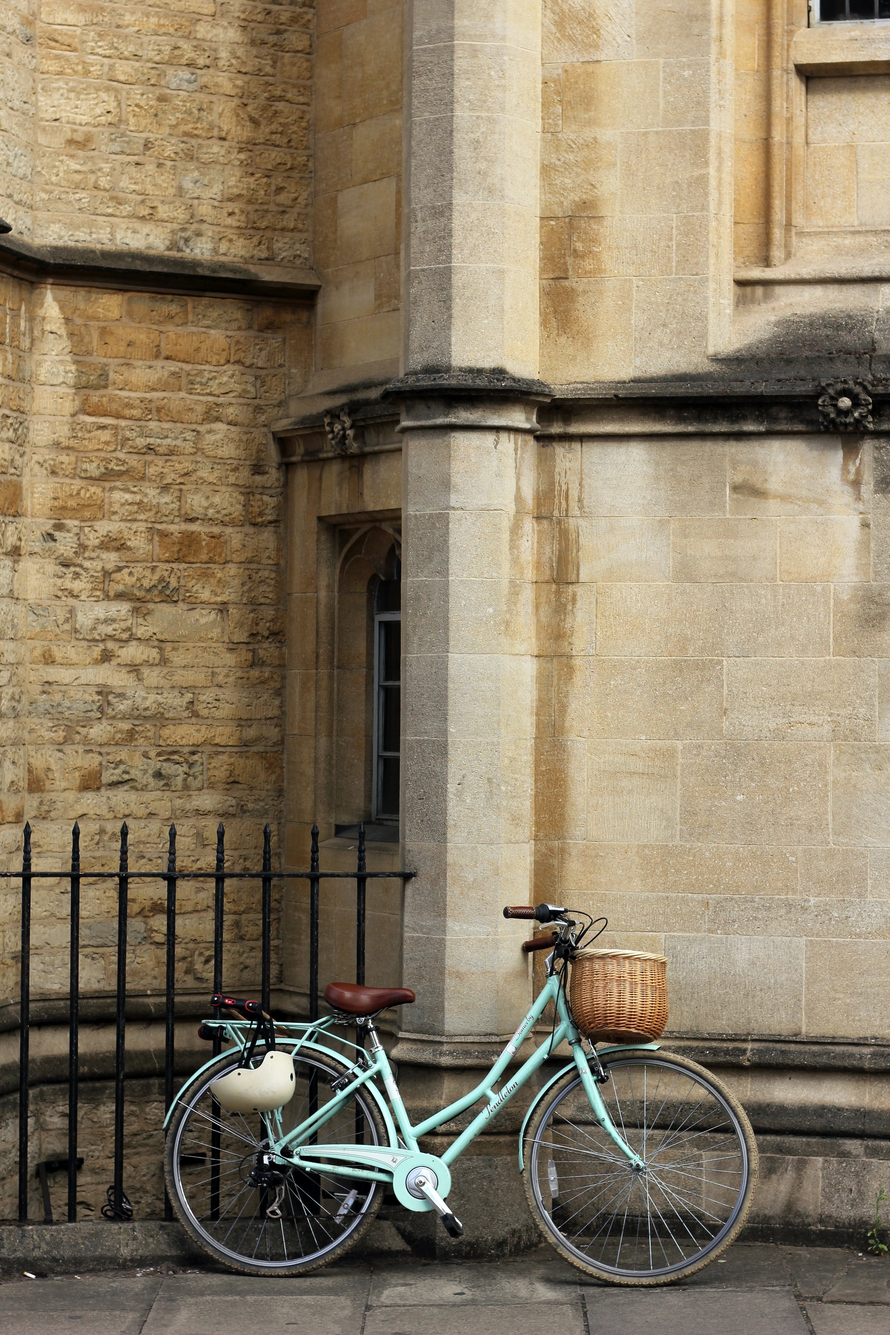
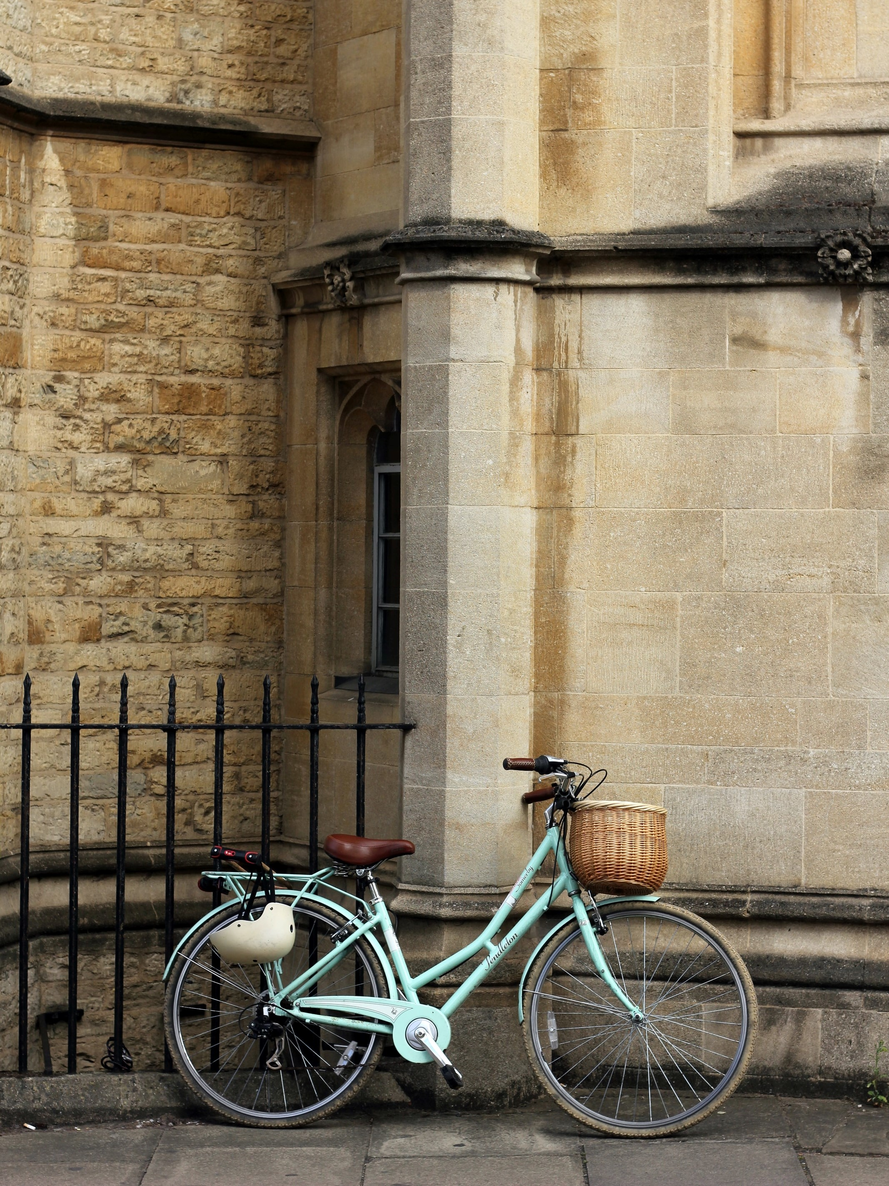
login html/css/image fixed

diff --git a/public/404.html b/public/404.html
@@ -25,12 +25,11 @@
 
 <body>
   <header>
-    <header>
       <div class="logoName" id="">
         <img src="./images/logo_final.png" id="logoImg">
-    </div>
+      </div>
   </header>
-  </header>
+<main class="firstPage">
   <div id="error-wrapper">
     <div id="error-div">
       <p id="not-found-title">404</p>
@@ -40,111 +39,112 @@
   </div>
 
 <!--Taken from https://codepen.io/lucawater/pen/feuar-->
-<div class="bike">
-  <div class="part frame">
-    <div class="bar left-top"></div>
-    <div class="bar left-bottom"></div>
-    <div class="bar left"></div>
-    <div class="bar top"></div>
-    <div class="bar bottom"></div>
-    <div class="bar right"></div>
-  </div>
-  <div class="part sadle">
-    <div class="sit-here"></div>
-    <div class="sadlepen"></div>
-  </div>
-  <div class="part handlebar">
-    <div class="stem"></div>
-    <div class="connector"></div>
-    <div class="prehandle"></div>
-    <div class="handle"></div>
-  </div>
-  <div class="part pedals">
-    <div class="inside"></div>
-    <div class="outside"></div>
-    <div class="pedalstem front">
-      <div class="pedalbase front"></div>
+  <div class="bike">
+    <div class="part frame">
+      <div class="bar left-top"></div>
+      <div class="bar left-bottom"></div>
+      <div class="bar left"></div>
+      <div class="bar top"></div>
+      <div class="bar bottom"></div>
+      <div class="bar right"></div>
     </div>
-    <div class="pedalstem back">
-      <div class="pedalbase back"></div>
+    <div class="part sadle">
+      <div class="sit-here"></div>
+      <div class="sadlepen"></div>
     </div>
+    <div class="part handlebar">
+      <div class="stem"></div>
+      <div class="connector"></div>
+      <div class="prehandle"></div>
+      <div class="handle"></div>
+    </div>
+    <div class="part pedals">
+      <div class="inside"></div>
+      <div class="outside"></div>
+      <div class="pedalstem front">
+        <div class="pedalbase front"></div>
+      </div>
+      <div class="pedalstem back">
+        <div class="pedalbase back"></div>
+      </div>
+    </div>
+    <div class="part wheel left">
+      <div class="spoke"></div>
+      <div class="spoke"></div>
+      <div class="spoke"></div>
+      <div class="spoke"></div>
+      <div class="spoke"></div>
+      <div class="spoke"></div>
+      <div class="spoke"></div>
+      <div class="spoke"></div>
+    </div>
+    <div class="part wheel right">
+      <div class="spoke"></div>
+      <div class="spoke"></div>
+      <div class="spoke"></div>
+      <div class="spoke"></div>
+      <div class="spoke"></div>
+      <div class="spoke"></div>
+      <div class="spoke"></div>
+      <div class="spoke"></div>
+    </div>
+    <div class="part axis left"></div>
+    <div class="part axis right"></div>
   </div>
-  <div class="part wheel left">
-    <div class="spoke"></div>
-    <div class="spoke"></div>
-    <div class="spoke"></div>
-    <div class="spoke"></div>
-    <div class="spoke"></div>
-    <div class="spoke"></div>
-    <div class="spoke"></div>
-    <div class="spoke"></div>
-  </div>
-  <div class="part wheel right">
-    <div class="spoke"></div>
-    <div class="spoke"></div>
-    <div class="spoke"></div>
-    <div class="spoke"></div>
-    <div class="spoke"></div>
-    <div class="spoke"></div>
-    <div class="spoke"></div>
-    <div class="spoke"></div>
-  </div>
-  <div class="part axis left"></div>
-  <div class="part axis right"></div>
-</div>
 
-<div class="bike bike-two">
-  <div class="part frame">
-    <div class="bar left-top"></div>
-    <div class="bar left-bottom"></div>
-    <div class="bar left"></div>
-    <div class="bar top"></div>
-    <div class="bar bottom"></div>
-    <div class="bar right"></div>
-  </div>
-  <div class="part sadle">
-    <div class="sit-here"></div>
-    <div class="sadlepen"></div>
-  </div>
-  <div class="part handlebar">
-    <div class="stem"></div>
-    <div class="connector"></div>
-    <div class="prehandle"></div>
-    <div class="handle"></div>
-  </div>
-  <div class="part pedals">
-    <div class="inside"></div>
-    <div class="outside"></div>
-    <div class="pedalstem front">
-      <div class="pedalbase front"></div>
+  <div class="bike bike-two">
+    <div class="part frame">
+      <div class="bar left-top"></div>
+      <div class="bar left-bottom"></div>
+      <div class="bar left"></div>
+      <div class="bar top"></div>
+      <div class="bar bottom"></div>
+      <div class="bar right"></div>
     </div>
-    <div class="pedalstem back">
-      <div class="pedalbase back"></div>
+    <div class="part sadle">
+      <div class="sit-here"></div>
+      <div class="sadlepen"></div>
     </div>
+    <div class="part handlebar">
+      <div class="stem"></div>
+      <div class="connector"></div>
+      <div class="prehandle"></div>
+      <div class="handle"></div>
+    </div>
+    <div class="part pedals">
+      <div class="inside"></div>
+      <div class="outside"></div>
+      <div class="pedalstem front">
+        <div class="pedalbase front"></div>
+      </div>
+      <div class="pedalstem back">
+        <div class="pedalbase back"></div>
+      </div>
+    </div>
+    <div class="part wheel left">
+      <div class="spoke"></div>
+      <div class="spoke"></div>
+      <div class="spoke"></div>
+      <div class="spoke"></div>
+      <div class="spoke"></div>
+      <div class="spoke"></div>
+      <div class="spoke"></div>
+      <div class="spoke"></div>
+    </div>
+    <div class="part wheel right">
+      <div class="spoke"></div>
+      <div class="spoke"></div>
+      <div class="spoke"></div>
+      <div class="spoke"></div>
+      <div class="spoke"></div>
+      <div class="spoke"></div>
+      <div class="spoke"></div>
+      <div class="spoke"></div>
+    </div>
+    <div class="part axis left"></div>
+    <div class="part axis right"></div>
   </div>
-  <div class="part wheel left">
-    <div class="spoke"></div>
-    <div class="spoke"></div>
-    <div class="spoke"></div>
-    <div class="spoke"></div>
-    <div class="spoke"></div>
-    <div class="spoke"></div>
-    <div class="spoke"></div>
-    <div class="spoke"></div>
-  </div>
-  <div class="part wheel right">
-    <div class="spoke"></div>
-    <div class="spoke"></div>
-    <div class="spoke"></div>
-    <div class="spoke"></div>
-    <div class="spoke"></div>
-    <div class="spoke"></div>
-    <div class="spoke"></div>
-    <div class="spoke"></div>
-  </div>
-  <div class="part axis left"></div>
-  <div class="part axis right"></div>
-</div>
+</main>
 </body>
 <script type="text/javascript">
   document.getElementById("back-click").addEventListener("click", function () {

diff --git a/public/css/login.css b/public/css/login.css
@@ -10,31 +10,25 @@ body {
 }
 
 header {
-    grid-area: "header";
-    background-color:#4C744C;
+    grid-area: header;
+    background-color: #4C744C;
 }
 
 .logoName {
-    margin: auto;
+    margin: 0.5vh auto;
     text-align: center;
-}
-
-#appName {
-    margin-bottom: 0;
-    font-size: large;
-    font-weight: bold;
-    font-family: "Sofia", sans-serif;
-    color: white;
+    height: 9vh;
 }
 
 header img {
-    width: 10vh;
-    
+    margin: 0px;
+    height: 9vh;
 }
 
 main {
-    grid-area: "main";
-    background-image: url(../images/biking_wall.jpg);
+    grid-area: main;
+    height: 90vh;
+    background-image: url(../images/bike10p.jpeg);
     background-repeat: no-repeat;
     background-size: cover;
     background-position: center center;
@@ -50,92 +44,23 @@ main p {
 main p a {
     font-family: 'Times New Roman', Times, serif;
     font-weight: bold !important;
-    color: darkblue !important;
+    color: rgb(35, 35, 97) !important;
 }
 
-iframe {
-    width: 100vw;
-    height: 65vh;
-}
-
-
-nav {
-    grid-area: "nav";
-    height: 15vh;
-    padding-top: 1vh !important;
-}
-
-.footer{
-    font-size: small;
-    color:#767274;
-}
-
-.bottomIcon {
-    display: flex;
-    flex-direction: column;
-    align-items: center;
-    padding-bottom: 0px;
-}
-
-.fixed-bottom {
-    border-top:black solid 1px;
-}
-
-.iconButton:hover{
-    background-color:#4C744C;
-    color: white;
-}
-
-#buttons {
-    display: flex;
-    gap: 15vw;
-    margin: 0vh 5vw;
-    margin-top: 1vh;
-}
-
-#buttons button {
-    flex-grow: 1;
-    background-color: #4C744C;
-    border: none;
-    height: 7vh;
-    padding-top: 0.2rem;
-    font-size: 2.8vh;
-}
-
-nav p {
-    font-size: 3.5vw !important;
-}
-
-nav i {
-    font-size: 10vw !important;
-}
-
-
-.bottomIcon button {
-    color:#767274;
-}
 
 /* Active page icon style -classes: parking, services, routes, info, profile*/
-.parking{
-    color:#4C744C;
-}
-
-.parking p{
-    color:#4C744C;
-}
-
-.parking:hover{
-    color:white;
-}
-
-
 
 .signIn {
-    display: flex;
-    flex-direction: column;
- 
-    align-items: center;
-    margin-top: 30%;
+    margin-top: 15vh;
+    text-align: center;
+}
+
+.btn {
+    color:#23335e !important;
+    font-weight: bold !important;
+    font-size: 3vh !important;
+    text-align: center;
+    opacity: 100% !important;
 }
 
 
